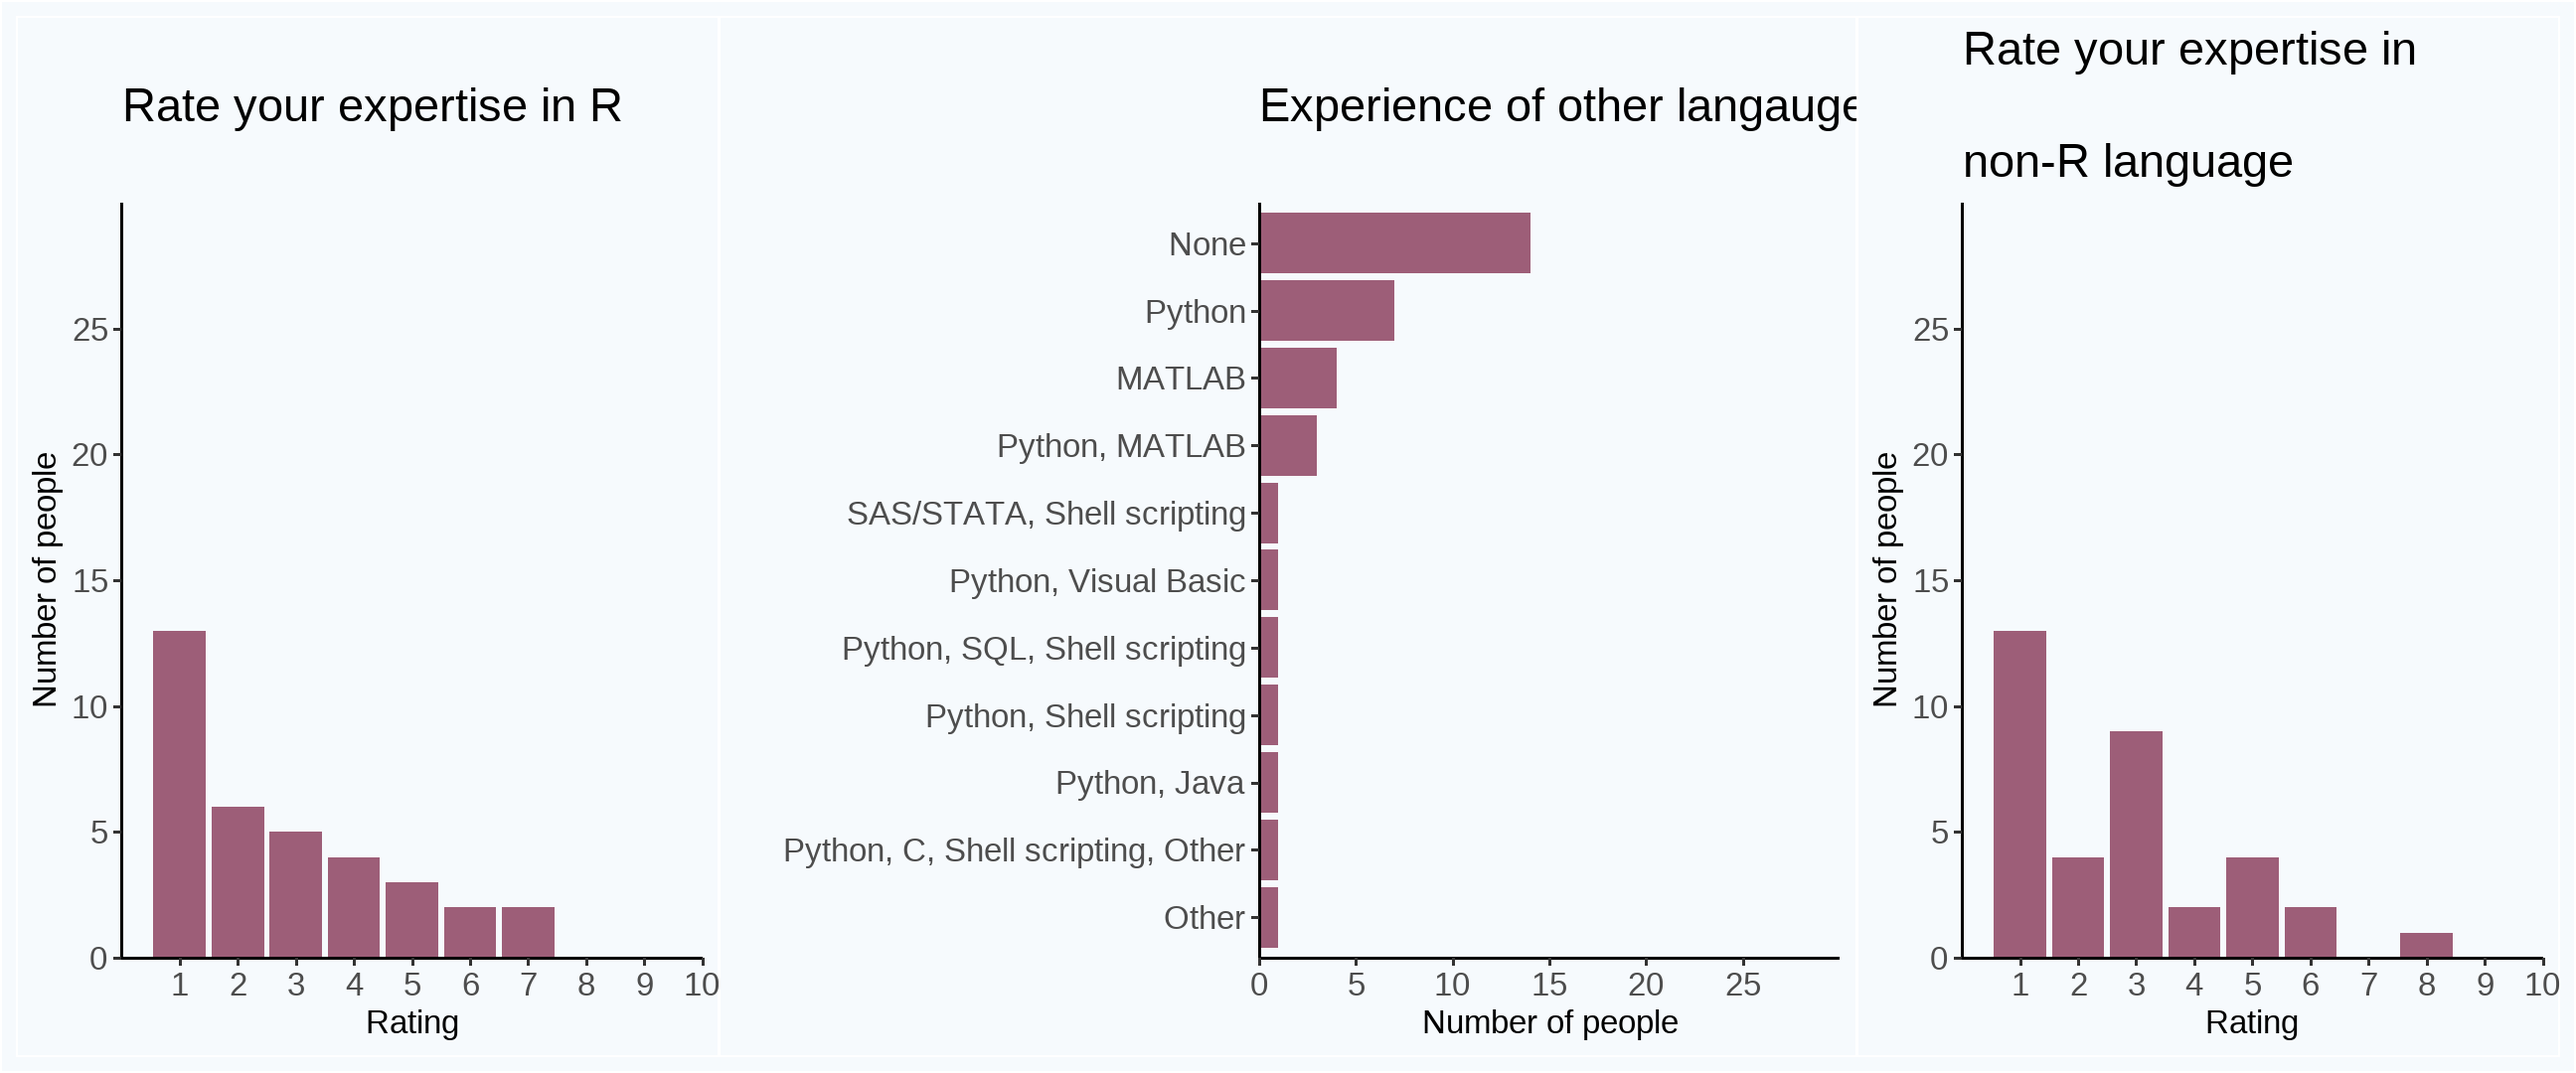
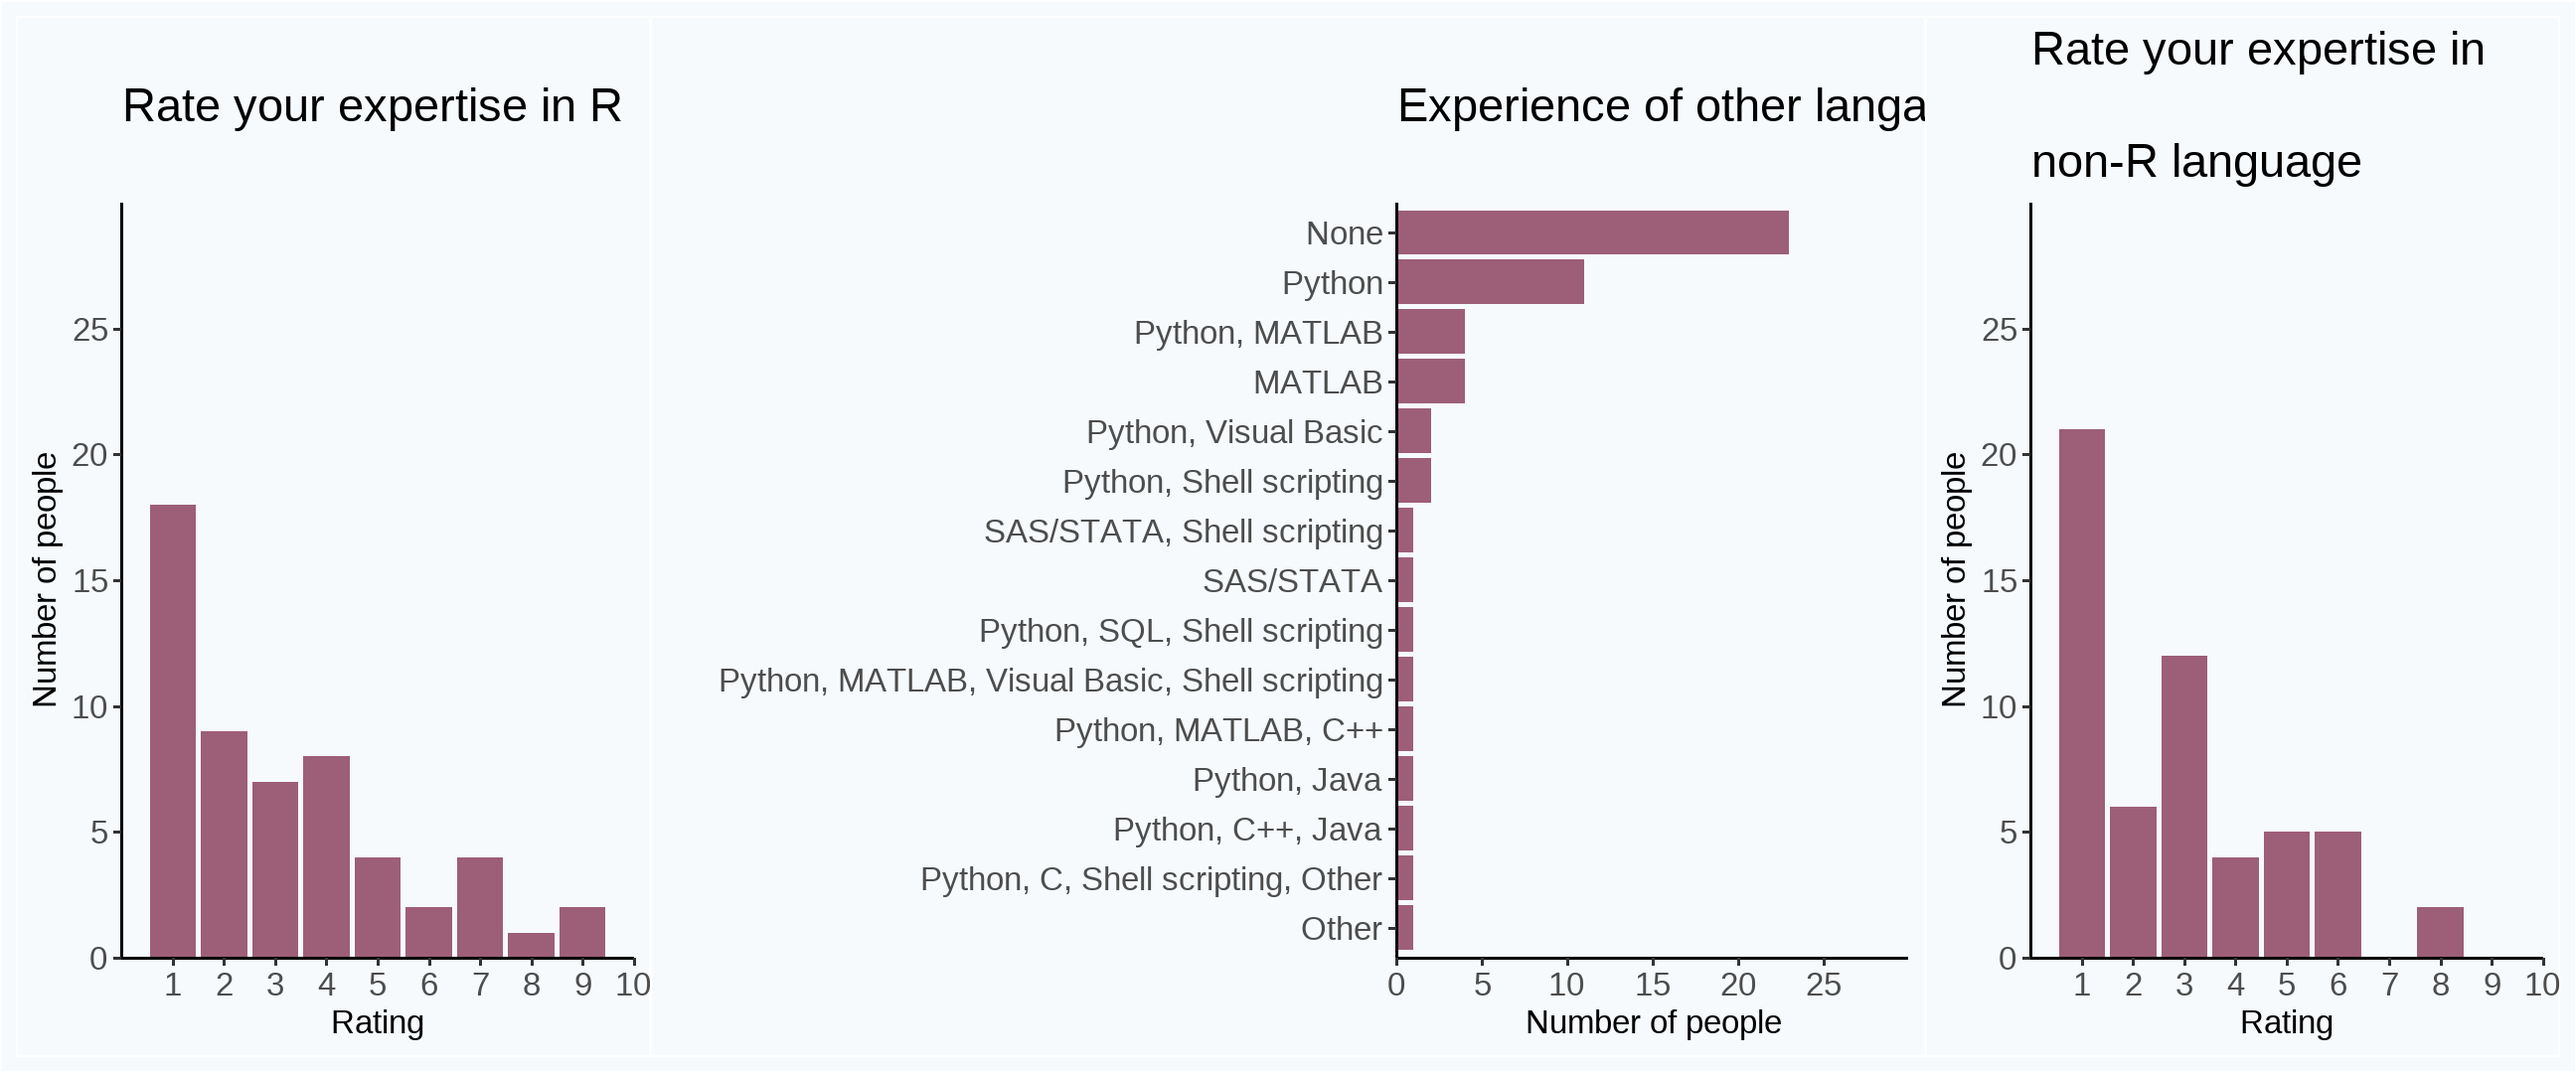
module 1 update for survey

diff --git a/slides/01_intro_and_principles_of_repro.html b/slides/01_intro_and_principles_of_repro.html
@@ -169,7 +169,7 @@ class: inverse
 # Survey results 1/3
 
 
-The distribution of ratings you (n = 35) gave in the survey were:
+The distribution of ratings you (n = 55) gave in the survey were:
 &lt;img src="01_intro_and_principles_of_repro_files/figure-html/unnamed-chunk-2-1.png" width="864" /&gt;
 
 ---
